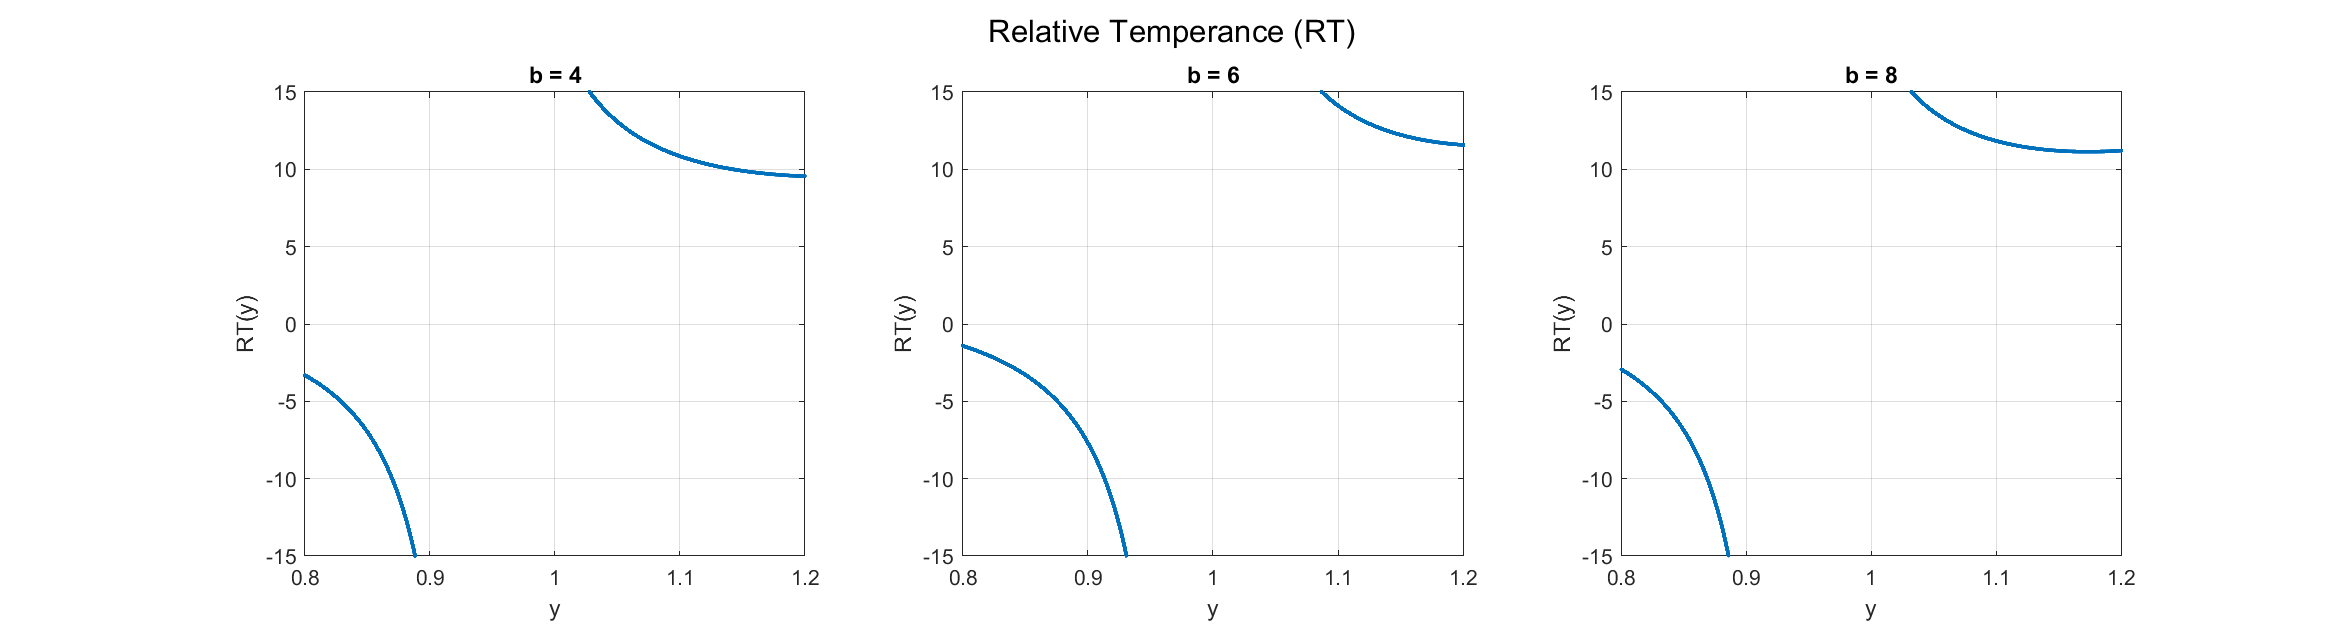
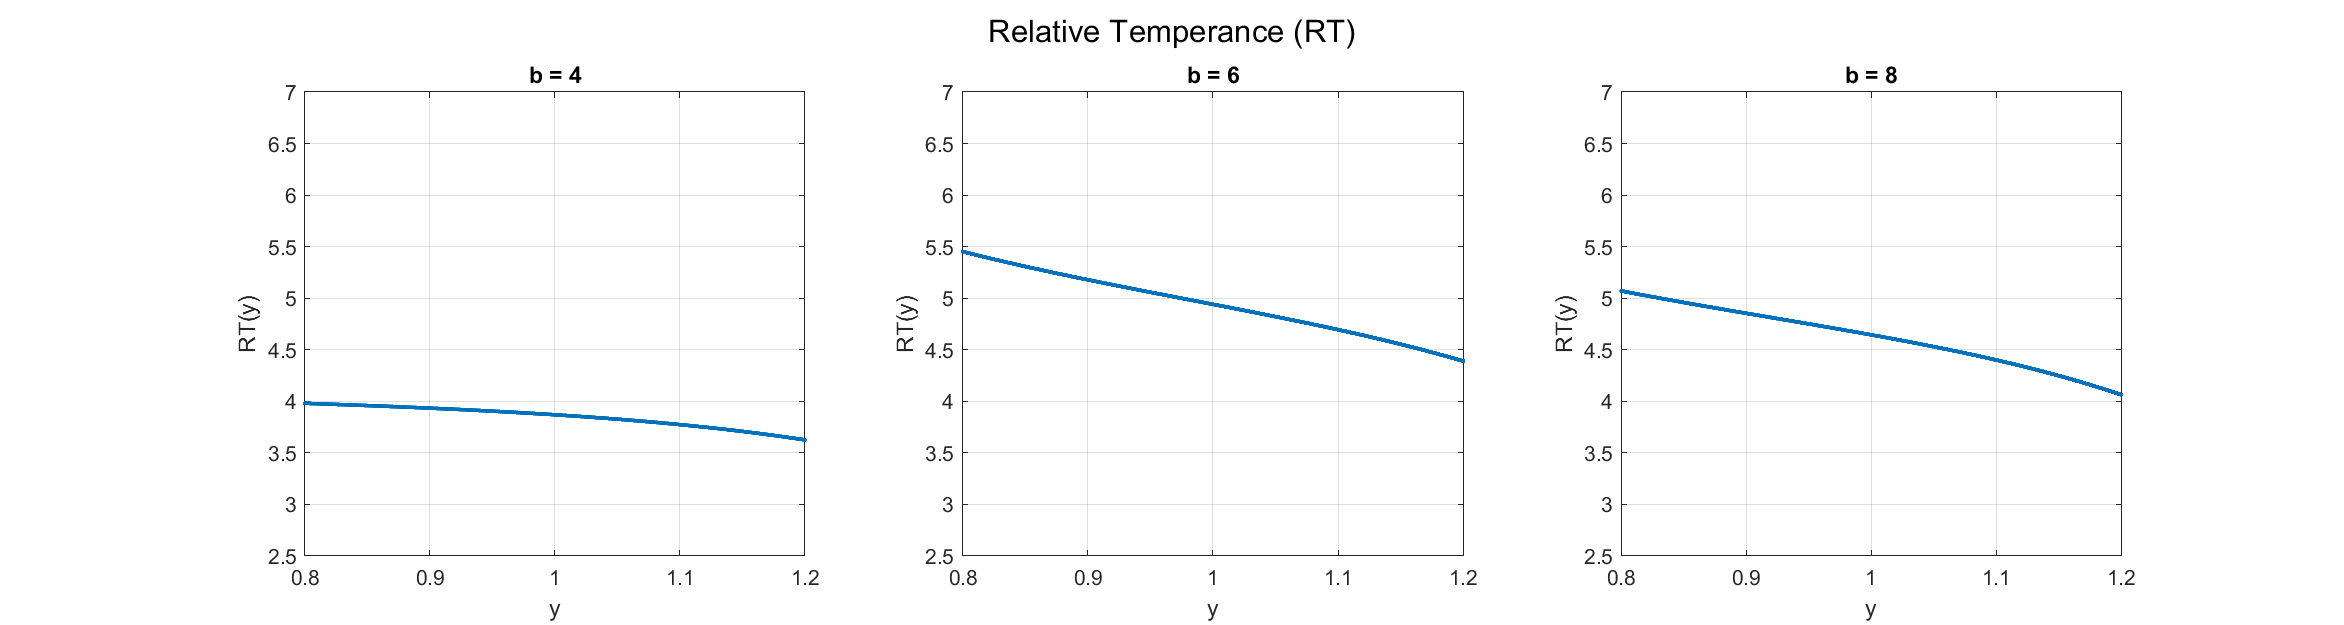
Correct the formulas of AT and RT and redraw the graphs

diff --git a/04  風險偏好指標（Risk Preference）/Procedure__Risk_Preference.m b/04  風險偏好指標（Risk Preference）/Procedure__Risk_Preference.m
@@ -117,22 +117,31 @@ for b = [4, 6, 8]
     g_double_prime = gradient(g_prime, y);
     g_triple_prime = gradient(g_double_prime, y);
 
+    % Derivative of Utility
+    u_1_prime = 1 ./ g;
+    u_2_prime = -1 ./ (g.^2) .* g_prime;
+    u_3_prime = 2 ./ (g.^3) .* (g_prime.^2) - 1 ./ (g.^2) .* g_double_prime;
+    u_4_prime = -6 ./ (g.^4) .* (g_prime.^3) + ...
+                6 ./ (g.^3) .* g_prime .* g_double_prime - ...
+                1 ./ (g.^2) .* g_triple_prime;
+
     % Risk Aversion
-    ARA = g_prime ./ g;
+    ARA = -u_2_prime ./ u_1_prime;
     RRA = y .* ARA;
     
     % Prudence
-    AP = (2 * (g_prime ./ g)) - (g_double_prime ./ g_prime);
+    AP = -u_3_prime ./ u_2_prime;
     RP = y .* AP;
 
     % Temperance
-    AT = (2 * (g_prime ./ g)) - (3 * (g_double_prime ./ g_prime)) + (g_triple_prime ./ g_double_prime);
+    AT = -u_4_prime ./ u_3_prime;
     RT = y .* AT;
 
     idx = b / 2 - 1;
     store_g(idx, :)              = g;
     store_g_prime(idx, :)        = g_prime;
     store_g_double_prime(idx, :) = g_double_prime;
+    store_g_triple_prime(idx, :) = g_triple_prime;
     store_ARA(idx, :)            = ARA;
     store_RRA(idx, :)            = RRA;
     store_AP(idx, :)             = AP;
@@ -140,6 +149,9 @@ for b = [4, 6, 8]
     store_AT(idx, :)             = AT;
     store_RT(idx, :)             = RT;
 
+    clear g g_prime g_double_prime g_triple_prime
+    clear u_1_prime u_2_prime u_3_prime u_4_prime
+    clear ARA RRA AP RP AT RT
 end
 
 
@@ -184,6 +196,71 @@ set(gca, 'LooseInset', get(gca,'TightInset'));
 % filename = 'g_function.png';
 % saveas(gcf, fullfile(Path_Output, filename));
 % clear filename
+
+
+%%  g function and its derivatives
+
+figure;
+for idx = 1:3
+    % Plot g(y)
+    subplot(4,3,idx);
+    hold on;
+    plot(y, store_g(idx, :), '.');
+    title(['g(y), b = ', num2str((idx + 1) * 2)]);
+    xlabel('y');
+    ylabel('g(y)');
+    xlim([x_min, x_max]);
+    ylim([0, 1.5]);
+    grid on;
+    set(gca, 'box', 'on');
+    hold off;
+
+    % Plot g'(y)
+    subplot(4,3,idx + 3);
+    hold on;
+    plot(y, store_g_prime(idx, :), '.');
+    title(['g''(y), b = ', num2str((idx + 1) * 2)]);
+    xlabel('y');
+    ylabel('g''(y)');
+    xlim([x_min, x_max]);
+    ylim([-1.5, 2]);
+    grid on;
+    set(gca, 'box', 'on');
+    hold off;
+
+    % Plot g''(y)
+    subplot(4,3,idx + 6);
+    hold on;
+    plot(y, store_g_double_prime(idx, :), '.');
+    title(['g''''(y), b = ', num2str((idx + 1) * 2)]);
+    xlabel('y');
+    ylabel('g''''(y)');
+    xlim([x_min, x_max]);
+    ylim([-2, 7]);
+    grid on;
+    set(gca, 'box', 'on');
+    hold off;
+
+    % Plot g'''(y)
+    subplot(4,3,idx + 9);
+    hold on;
+    plot(y, store_g_triple_prime(idx, :), '.');
+    title(['g''''''(y), b = ', num2str((idx + 1) * 2)]);
+    xlabel('y');
+    ylabel('g''''''(y)');
+    xlim([x_min, x_max]);
+    ylim([-7, -3]);
+    grid on;
+    set(gca, 'box', 'on');
+    hold off;
+end
+sgtitle('g Function and Its Derivatives');
+
+set(gcf, 'Position', [100, 100, 1200, 850]);
+
+filename = 'g_Function_and_Its_Derivatives.png';
+saveas(gcf, fullfile(Path_Output, filename));
+clear filename
 
 
 %% Absolute Risk Aversion (ARA)
@@ -316,8 +393,8 @@ clear filename
 
 %% Absolute Temperance (AT)
 
-y_min = -15;
-y_max = 15;
+y_min = 2.5;
+y_max = 7;
 
 figure;
 for idx = 1:3
@@ -348,8 +425,8 @@ clear filename
 
 %% Relative Temperance (RT)
 
-y_min = -15;
-y_max = 15;
+y_min = 2.5;
+y_max = 7;
 
 figure;
 for idx = 1:3
